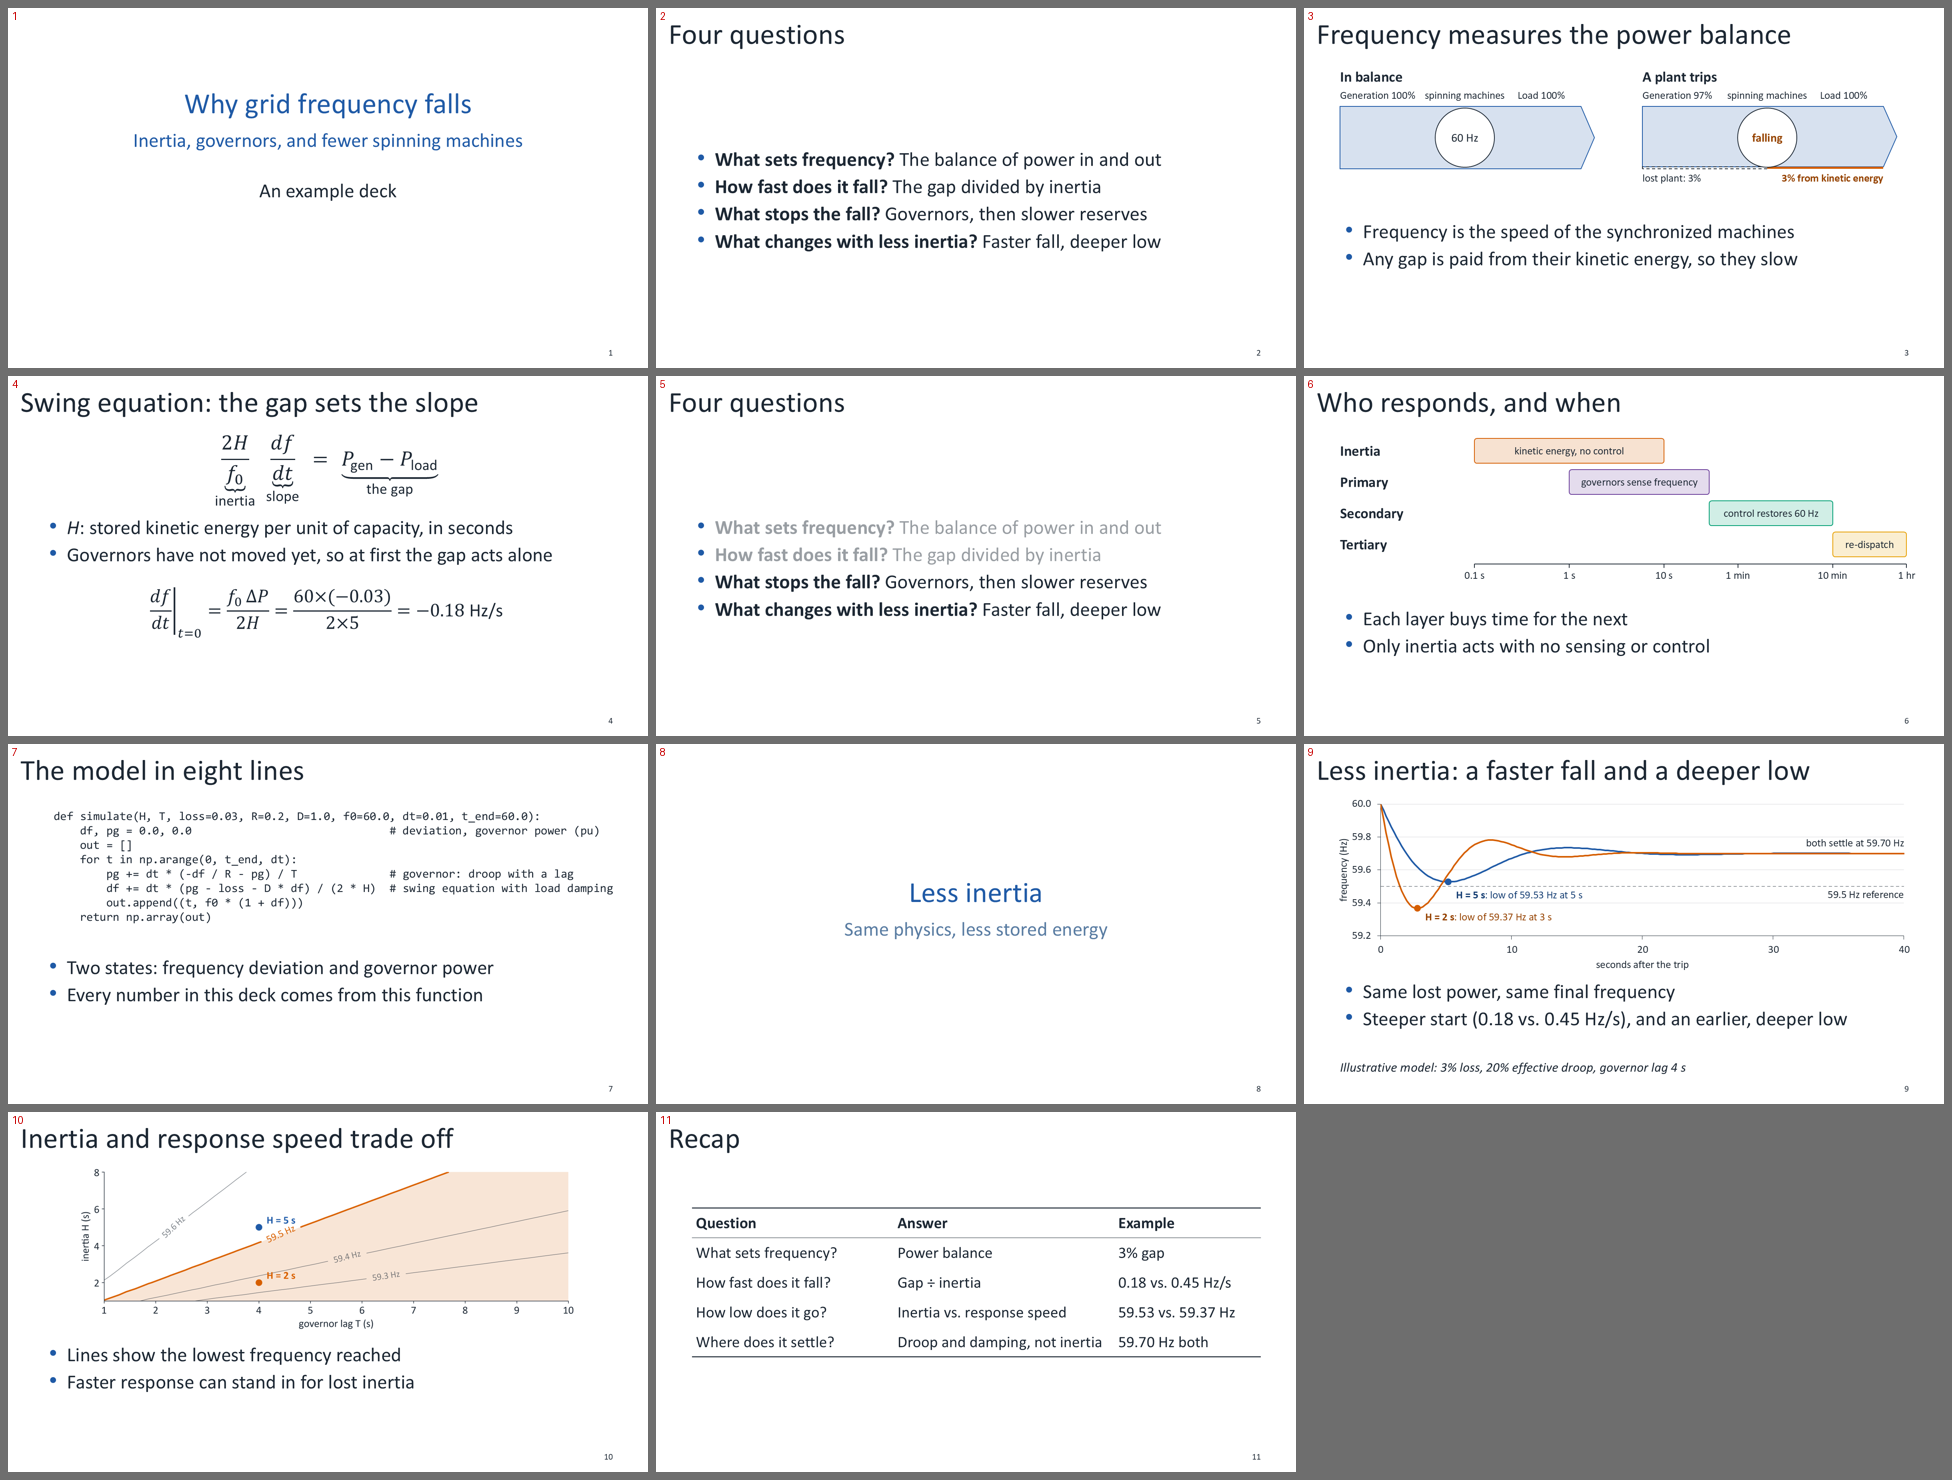
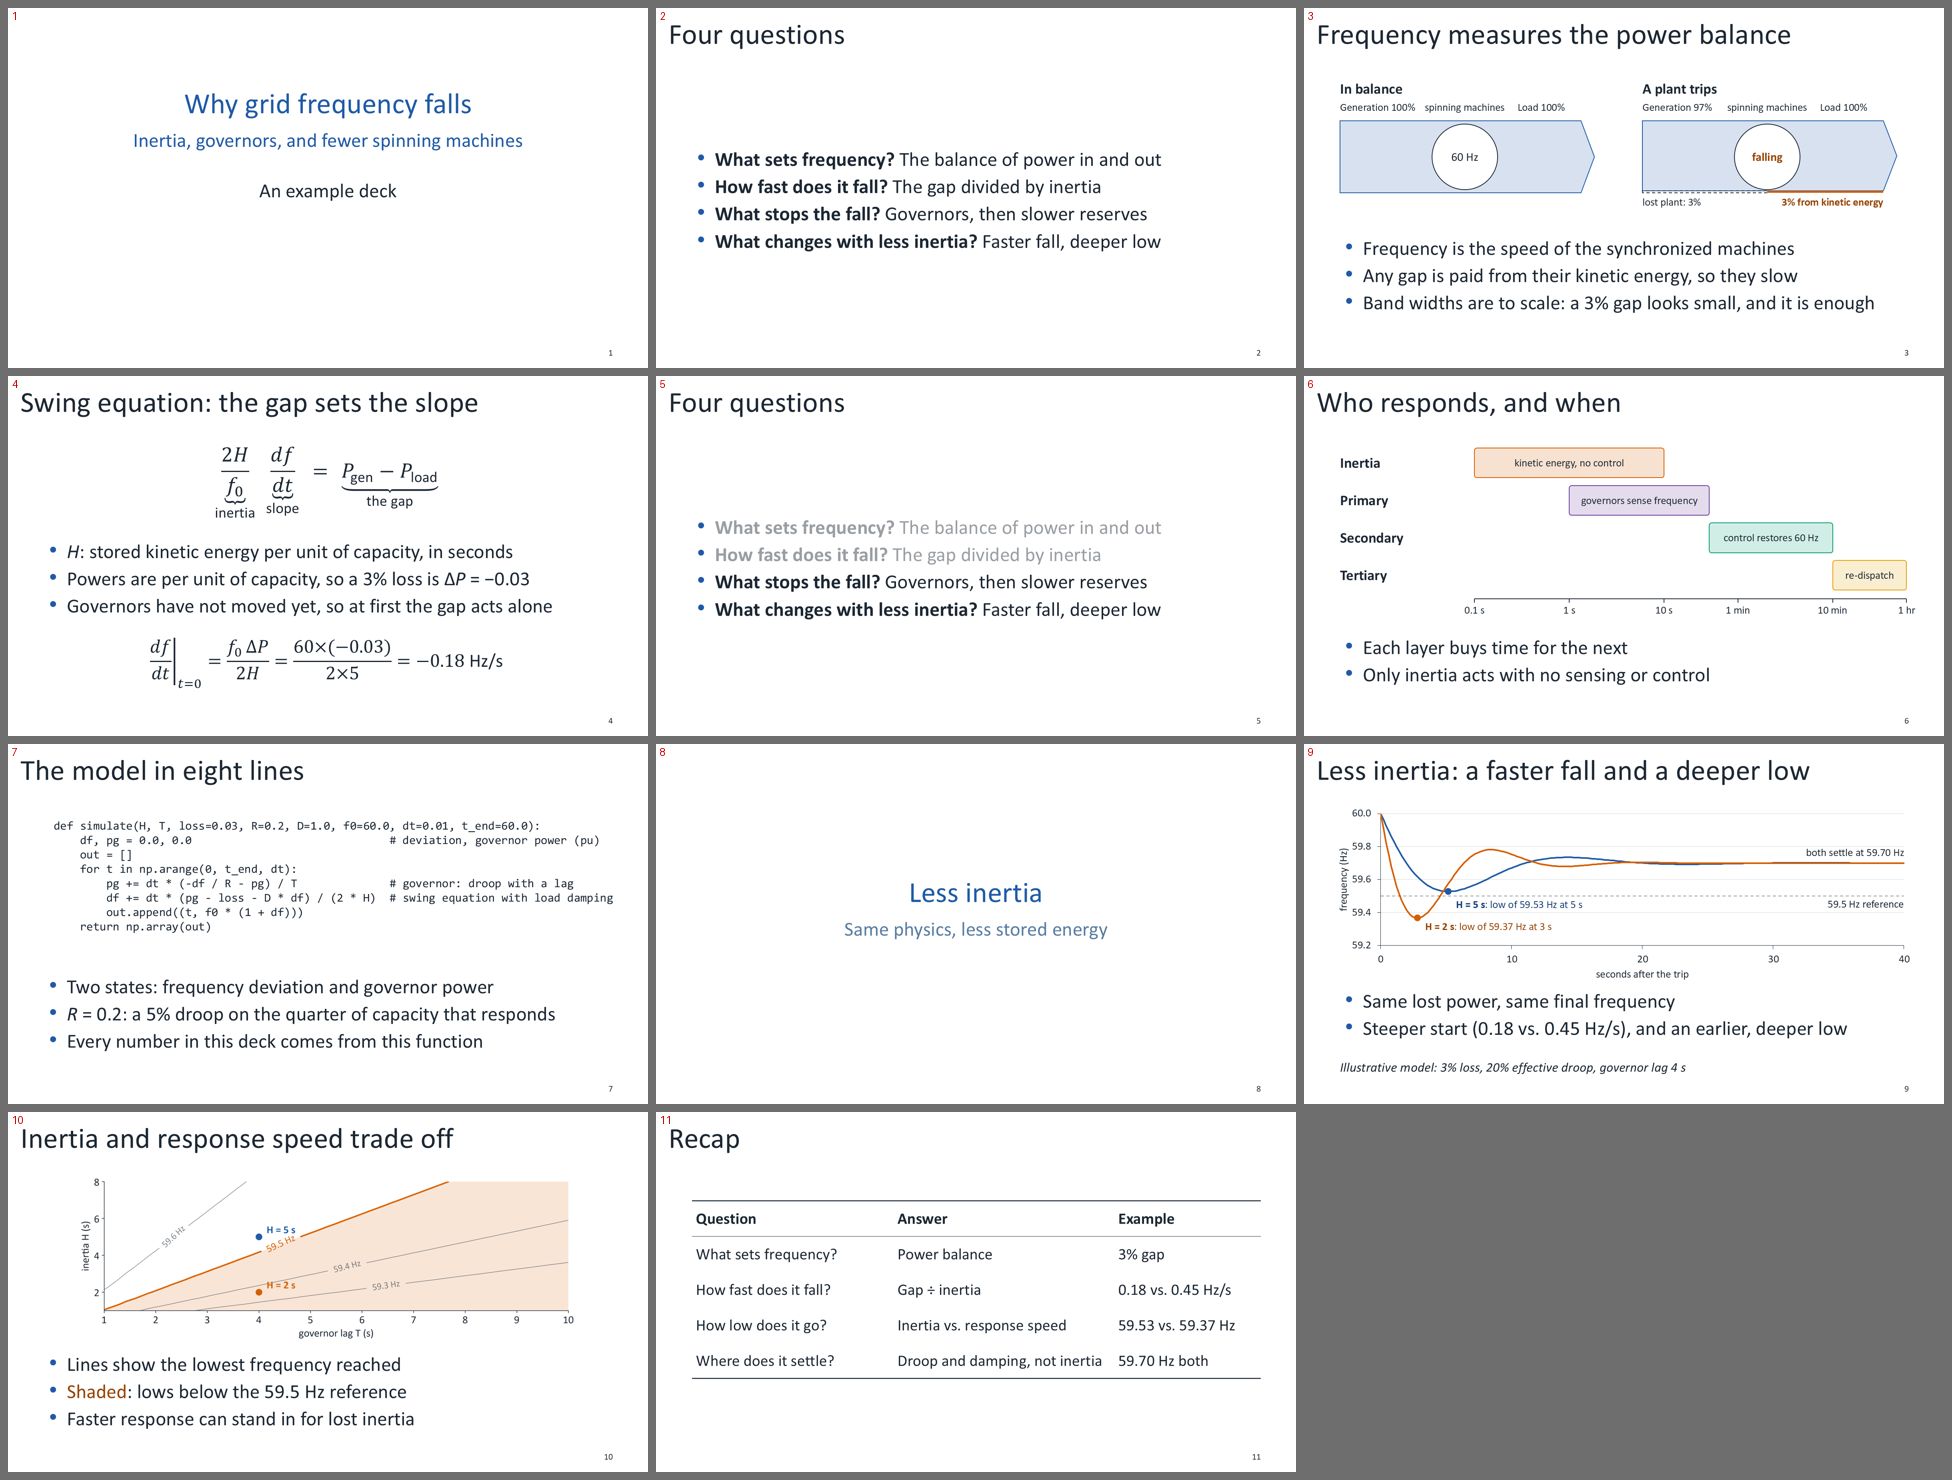
Use the freed footer space in the example deck
Shift content down so titles have room, and turn the useful former footer
details into bullets: band widths to scale, per-unit power, the droop value
and what the shading means. The recap table gets taller rows.

diff --git a/examples/grid_frequency.py b/examples/grid_frequency.py
@@ -65,12 +65,12 @@ def questions(prs, dim=0):
 
 def balance_panel(s, x, tripped):
     """Power flowing through the spinning machines, with band widths to scale."""
-    thick, top, cx, r, end = 1.3, 2.05, x + 2.6, 0.62, x + 5.3
+    thick, top, cx, r, end = 1.5, 2.35, x + 2.6, 0.68, x + 5.3
     gen = 1 - LOSS if tripped else 1.0
-    text(s, "**A plant trips**" if tripped else "**In balance**", x, 1.25, 5.3, 0.36, size=22, name="Panel title")
-    text(s, f"Generation {gen:.0%}", x, 1.68, 1.75, 0.32, size=16, name="Generation label")
-    text(s, "spinning machines", cx - 0.9, 1.68, 1.8, 0.32, size=16, align="c", name="Machines label")
-    text(s, "Load 100%", cx + 1.1, 1.68, 1.6, 0.32, size=16, name="Load label")
+    text(s, "**A plant trips**" if tripped else "**In balance**", x, 1.5, 5.3, 0.36, size=22, name="Panel title")
+    text(s, f"Generation {gen:.0%}", x, 1.93, 1.75, 0.32, size=16, name="Generation label")
+    text(s, "spinning machines", cx - 0.9, 1.93, 1.8, 0.32, size=16, align="c", name="Machines label")
+    text(s, "Load 100%", cx + 1.1, 1.93, 1.6, 0.32, size=16, name="Load label")
     flow = rect(s, x, top, end - x, thick * gen, fill="a1+", line="a1", shape=MSO_SHAPE.PENTAGON,
                 name="Power from generation (to scale)")
     flow.adjustments[0] = 0.28 / (thick * gen)
@@ -90,22 +90,24 @@ def balance(prs):
     balance_panel(s, 0.75, False)
     balance_panel(s, 7.05, True)
     bullets(s, [(0, "Frequency is the speed of the synchronized machines"),
-                (0, "Any gap is paid from their kinetic energy, so they slow")],
-            0.75, 4.35, 11.85, 1.5, anchor="t")
+                (0, "Any gap is paid from their kinetic energy, so they slow"),
+                (0, f"Band widths are to scale: a {LOSS:.0%} gap looks small, and it is enough")],
+            0.75, 4.7, 11.85, 1.8, anchor="t")
 
 
 def swing(prs):
     s = add_slide(prs, "Swing equation: the gap sets the slope")
     eq(s, r"\underbrace{\frac{2H}{f_0}}_{\text{inertia}}\;\underbrace{\frac{df}{dt}}_{\text{slope}}"
           r"\;=\;\underbrace{P_{\text{gen}}-P_{\text{load}}}_{\text{the gap}}",
-       0.75, 1.15, 11.85, 1.5, size=32, anchor="t", fallback="(2H/f0) df/dt = Pgen - Pload")
+       0.75, 1.4, 11.85, 1.5, size=32, anchor="t", fallback="(2H/f0) df/dt = Pgen - Pload")
     bullets(s, [(0, "*H*: stored kinetic energy per unit of capacity, in seconds"),
+                (0, f"Powers are per unit of capacity, so a {LOSS:.0%} loss is Δ*P* = −{LOSS:.2f}"),
                 (0, "Governors have not moved yet, so at first the gap acts alone")],
-            0.75, 2.85, 11.85, 1.3, anchor="t")
+            0.75, 3.35, 11.85, 1.6, anchor="t")
     eq(s, r"\left.\frac{df}{dt}\right|_{t=0}=\frac{f_0\,\Delta P}{2H}=\frac{%d\times(-%.2f)}{2\times 5}=-%.2f\ \text{Hz/s}"
        % (F0, LOSS, slope(5)),
-       0.75, 4.3, 11.85, 1.2, size=28, fallback=f"df/dt at t=0 = f0 dP / 2H = -{slope(5):.2f} Hz/s")
-    s.notes_slide.notes_text_frame.text = ("One-machine equivalent of the whole system; powers are per unit of capacity. "
+       0.75, 5.35, 11.85, 1.2, size=28, fallback=f"df/dt at t=0 = f0 dP / 2H = -{slope(5):.2f} Hz/s")
+    s.notes_slide.notes_text_frame.text = ("One-machine equivalent of the whole system. "
                                            "Source: Kundur, Power System Stability and Control (1994).")
 
 
@@ -117,7 +119,7 @@ def timeline(prs):
             ("Primary", "governors sense frequency", 1, 30, "a5"),
             ("Secondary", "control restores 60 Hz", 30, 600, "a3"),
             ("Tertiary", "re-dispatch", 600, 3600, "a6"))
-    y, h, gap = 1.3, 0.52, 0.13
+    y, h, gap = 1.5, 0.62, 0.16
     for i, (name, what, a, b, color) in enumerate(rows):
         yi = y + i * (h + gap)
         text(s, f"**{name}**", 0.75, yi, 2.7, h, size=22, anchor="m", name=f"{name} label")
@@ -129,15 +131,16 @@ def timeline(prs):
         text(s, label, X(t) - 0.5, axis_y + 0.1, 1.0, 0.28, size=16, align="c", name="Tick label")
     bullets(s, [(0, "Each layer buys time for the next"),
                 (0, "Only inertia acts with no sensing or control")],
-            0.75, 4.75, 11.85, 1.3, anchor="t")
+            0.75, 5.35, 11.85, 1.3, anchor="t")
 
 
 def model(prs):
     s = add_slide(prs, "The model in eight lines")
-    code(s, inspect.getsource(simulate).rstrip(), 0.95, 1.35, 11.7, 2.9)
+    code(s, inspect.getsource(simulate).rstrip(), 0.95, 1.55, 11.7, 2.9)
     bullets(s, [(0, "Two states: frequency deviation and governor power"),
+                (0, "*R* = 0.2: a 5% droop on the quarter of capacity that responds"),
                 (0, "Every number in this deck comes from this function")],
-            0.75, 4.35, 11.85, 1.5, anchor="t")
+            0.75, 4.75, 11.85, 1.8, anchor="t")
 
 
 def chart_slide(prs):
@@ -147,7 +150,7 @@ def chart_slide(prs):
         ser = data.add_series(name)
         for t, f in run[run[:, 0] <= 40][::20]:
             ser.add_data_point(float(t), round(float(f), 4))
-    frame = s.shapes.add_chart(XL_CHART_TYPE.XY_SCATTER_LINES_NO_MARKERS, I(0.6), I(1.1), I(12.1), I(3.75), data)
+    frame = s.shapes.add_chart(XL_CHART_TYPE.XY_SCATTER_LINES_NO_MARKERS, I(0.6), I(1.3), I(12.1), I(3.75), data)
     frame.name = "Frequency after the trip"
     ch = frame.chart
     style_chart(ch)
@@ -163,7 +166,7 @@ def chart_slide(prs):
         ser.smooth = False
         paint(ser.format.line.color, color)
         ser.format.line.width = Pt(2.5)
-    px, py, pw, ph = 1.6, 1.25, 10.9, 2.75
+    px, py, pw, ph = 1.6, 1.45, 10.9, 2.75
     fix_plot(frame, px, py, pw, ph)
     # Overlays are placed from the data, so they land exactly on the curves.
     X = lambda t: px + pw * t / 40
@@ -178,7 +181,7 @@ def chart_slide(prs):
     text(s, f"both settle at {SETTLE:.2f} Hz", X(40) - 3, Y(SETTLE) - 0.36, 3, 0.3, size=16, align="r", name="Settle label")
     bullets(s, [(0, "Same lost power, same final frequency"),
                 (0, f"Steeper start ({slope(5):.2f} vs. {slope(2):.2f} Hz/s), and an earlier, deeper low")],
-            0.75, 4.85, 11.85, 1.3, anchor="t")
+            0.75, 5.05, 11.85, 1.3, anchor="t")
     note(s, f"*Illustrative model: {LOSS:.0%} loss, 20% effective droop, governor lag {LAG} s*")
 
 
@@ -210,13 +213,14 @@ def tradeoff(prs):
     s = add_slide(prs, "Inertia and response speed trade off")
     img = HERE / "_tradeoff.png"
     tradeoff_picture(img, theme_colors(prs))
-    pic = s.shapes.add_picture(str(img), I(1.45), I(1.1), width=I(10.4))
+    pic = s.shapes.add_picture(str(img), I(1.45), I(1.3), width=I(10.4))
     pic.name = "Lowest frequency vs. inertia and governor lag"
     pic._element.nvPicPr.cNvPr.set("descr", "Contours of the lowest frequency reached, by inertia and governor lag")
     img.unlink()
     bullets(s, [(0, "Lines show the lowest frequency reached"),
+                (0, f"[a2-:Shaded]: lows below the {REFERENCE} Hz reference"),
                 (0, "Faster response can stand in for lost inertia")],
-            0.75, 4.75, 11.85, 1.3, anchor="t")
+            0.75, 4.95, 11.85, 1.8, anchor="t")
     s.notes_slide.notes_text_frame.text = ("This plot is an image because PowerPoint has no contour chart. "
                                            "To change it, edit tradeoff_picture() in grid_frequency.py and re-run.")
 
@@ -228,7 +232,7 @@ def recap(prs):
             ["How fast does it fall?", "Gap ÷ inertia", f"{slope(5):.2f} vs. {slope(2):.2f} Hz/s"],
             ["How low does it go?", "Inertia vs. response speed", f"{F_HIGH:.2f} vs. {F_LOW:.2f} Hz"],
             ["Where does it settle?", "Droop and damping, not inertia", f"{SETTLE:.2f} Hz both"]]
-    table(s, rows, 0.75, 2.0, [4.2, 4.6, 3.05], row_h=0.62, size=24, name="Recap")
+    table(s, rows, 0.75, 1.85, [4.2, 4.6, 3.05], row_h=0.74, size=24, name="Recap")
 
 
 def main(out):
